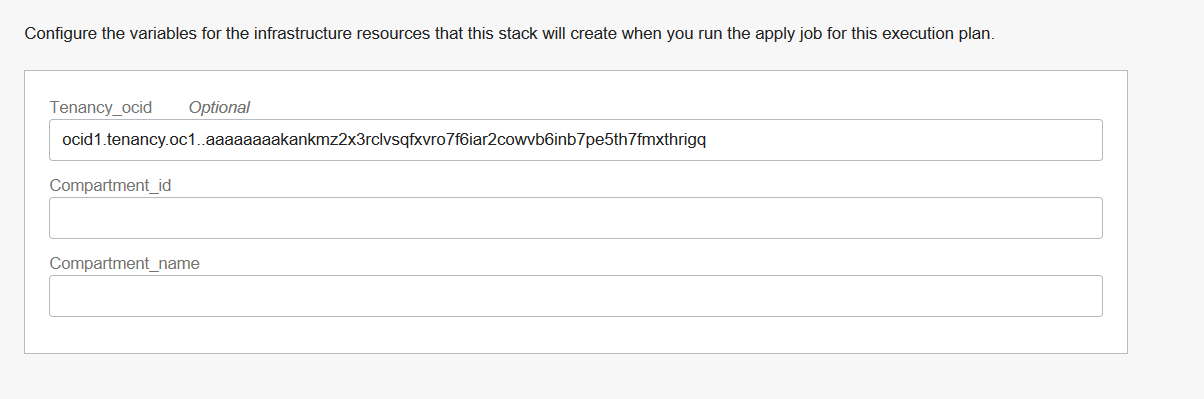
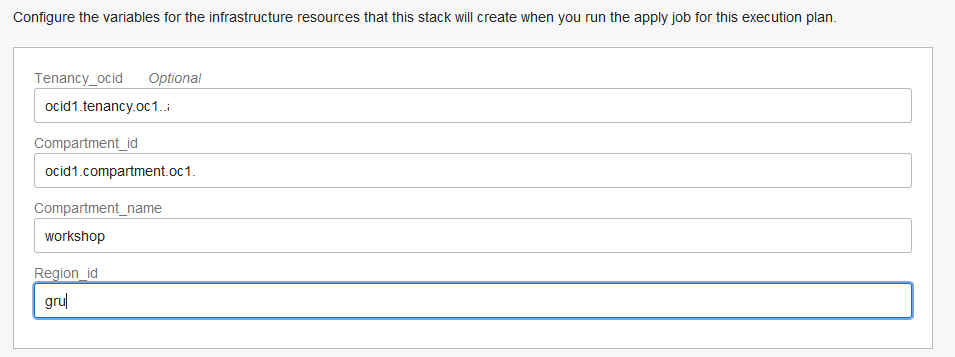
correcao terraform

diff --git a/LAB01/LAB01.md b/LAB01/LAB01.md
@@ -81,6 +81,7 @@ Nesse laboratório prepararemos a infraestrutura base do workshop, onde criaremo
 - Tenancy_ocid: (**Manter valor apresentado**)
 - Compartment_id: Preencha com a informação de **OCID** coletada no passo **11**
 - Compartment_name: Preencha com a informação de **Nome** coletada no passo **11**
+- Region_key: Este campo deve ser preenchido de acordo com a chave da sua **região em letras minúsculas**. Para saber a chave referente a sua região utilize a coluna de **Region Key**, na lista de regiões presentes no link: [https://docs.oracle.com/en-us/iaas/Content/General/Concepts/regions.htm](https://docs.oracle.com/en-us/iaas/Content/General/Concepts/regions.htm).
 19. Clique em **Próximo** (Next)
 20. Selecione a checkbox **Run Apply** e clique em **Criar**
 

diff --git a/README.md b/README.md
@@ -1,2 +1,4 @@
-[LAB 01 - Preparando o Ambiente](./LAB01/LAB01.md)
+[LAB 01 - Preparando o Ambiente](./LAB01/LAB01.md)
 [LAB 02 - Functions](./LAB02/LAB02.md)
+
+
